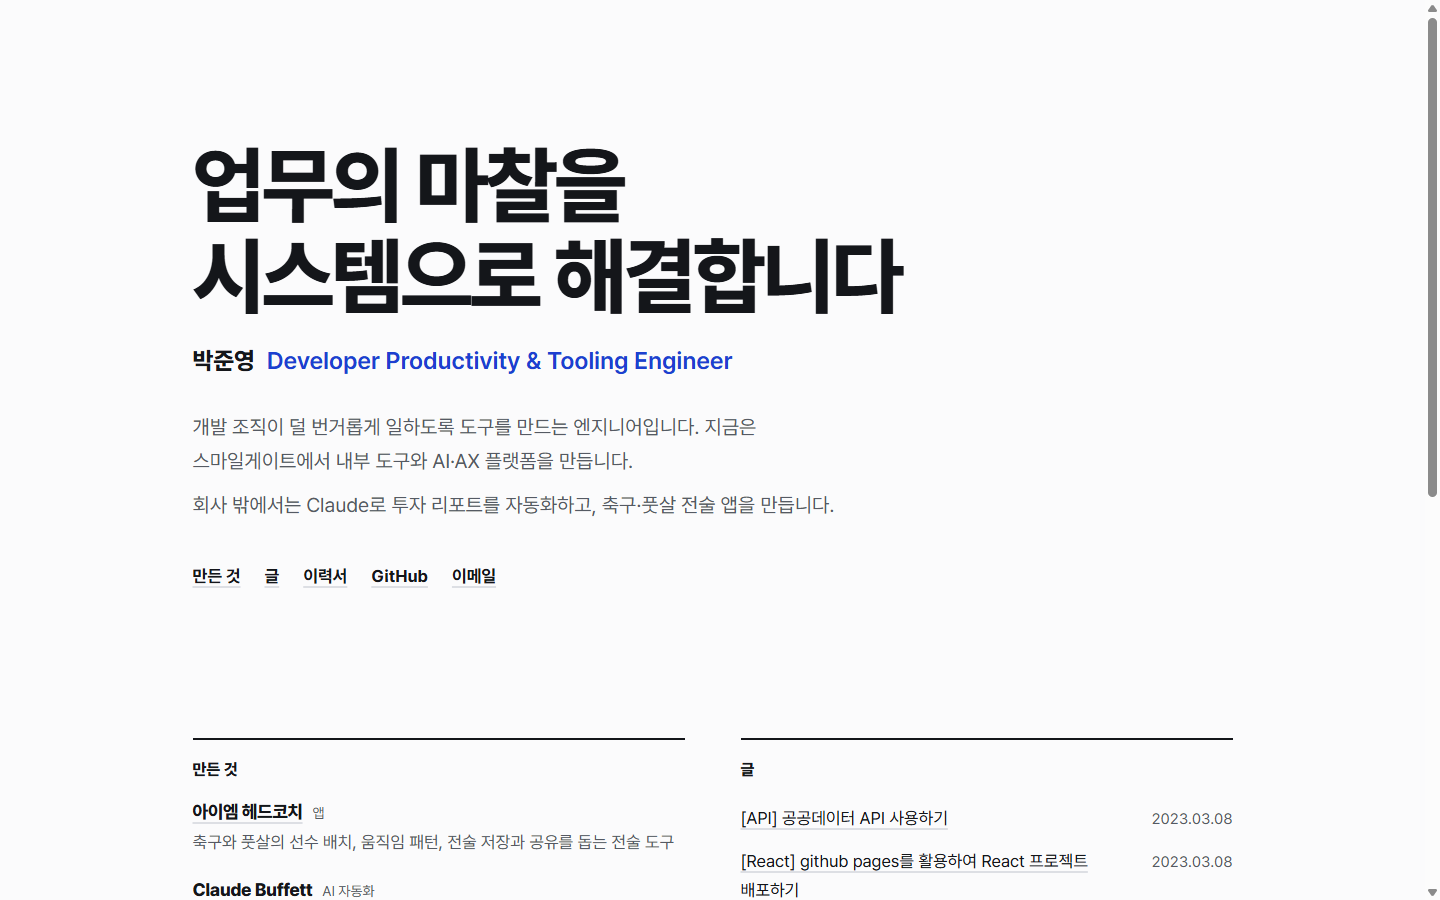
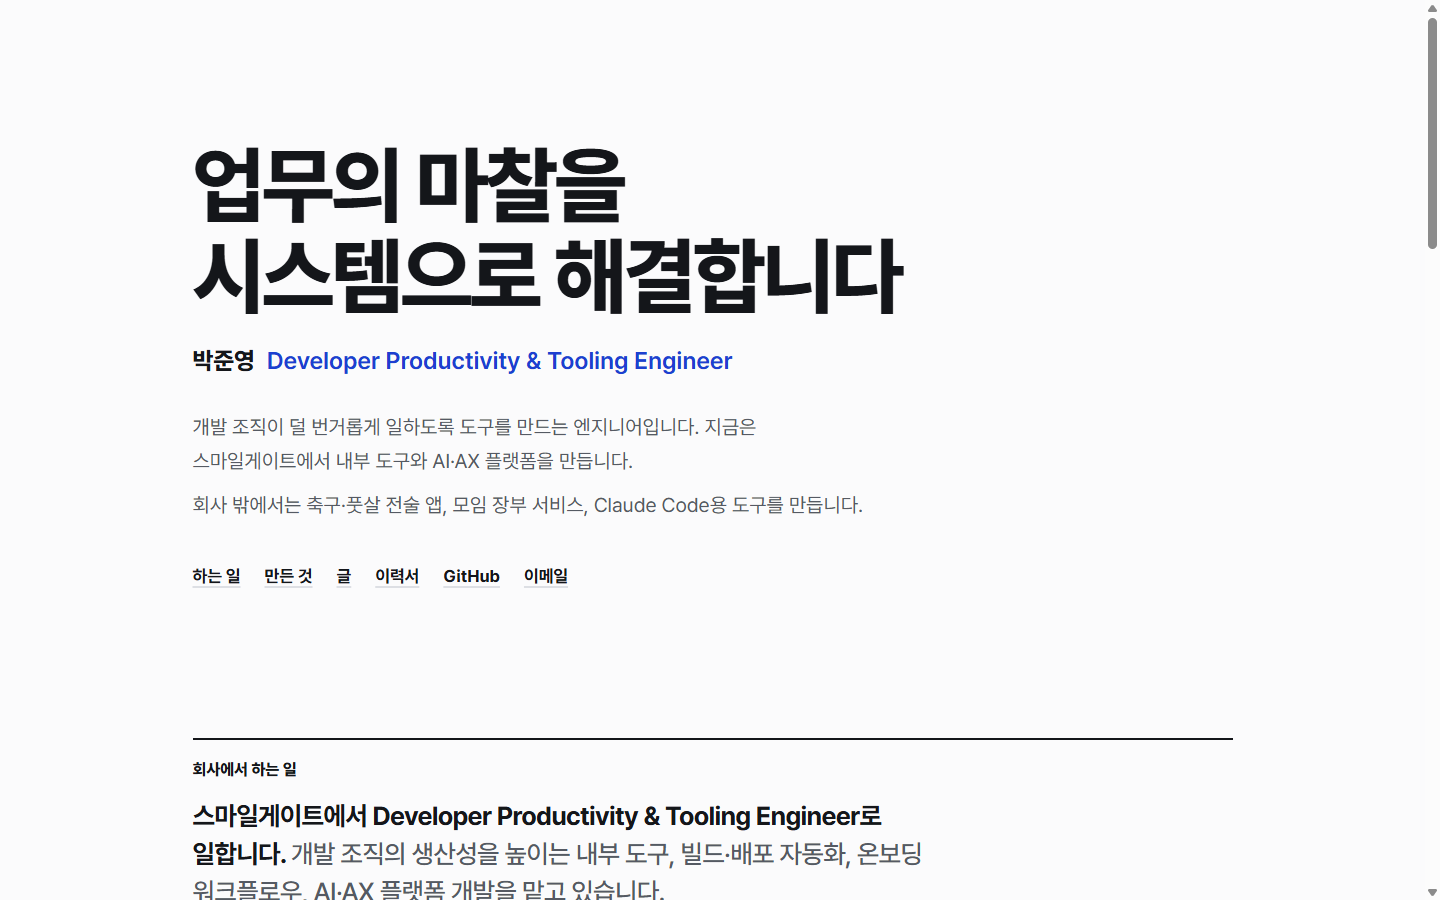
docs: put work first on the chosen home concept and list the picked projects
Home concept M is chosen. Order is now card, what I do at work, things made outside work, writing, resume. The 13 projects the owner picked follow the link rule: finished thing, GitHub when public, description only when private.

diff --git a/docs/ux-concepts/career-site-home/shared/home.js b/docs/ux-concepts/career-site-home/shared/home.js
@@ -13,18 +13,38 @@ window.HOME = {
   // Written for these drafts from facts already on the site. To be confirmed by the owner.
   intro: [
     '개발 조직이 덜 번거롭게 일하도록 도구를 만드는 엔지니어입니다. 지금은 스마일게이트에서 내부 도구와 AI·AX 플랫폼을 만듭니다.',
-    '회사 밖에서는 Claude로 투자 리포트를 자동화하고, 축구·풋살 전술 앱을 만듭니다.',
+    '회사 밖에서는 축구·풋살 전술 앱, 모임 장부 서비스, Claude Code용 도구를 만듭니다.',
   ],
-  // Headcoach text comes from public/iam-headcoach/index.html, the rest from src/data/content.ts.
+  // Picked by the owner on 2026-11-14. Link rule (owner's): a deployed project links to the finished thing,
+  // a public project also links to GitHub, a private one gets a description only.
+  // One-line descriptions come from each project's README or store listing.
   made: [
-    { name: '아이엠 헤드코치', kind: '앱', href: 'https://jaywapp.com/iam-headcoach/',
+    { group: 'service', name: '아이엠 헤드코치', live: { label: '소개 페이지', href: 'https://jaywapp.com/iam-headcoach/' }, repo: 'https://github.com/jaywapp/squad-maker',
       line: '축구와 풋살의 선수 배치, 움직임 패턴, 전술 저장과 공유를 돕는 전술 도구' },
-    { name: 'Claude Buffett', kind: 'AI 자동화', href: 'https://github.com/jaywapp/claude-buffett',
-      line: '종목 분석, 시장 동향, 포트폴리오 리뷰를 Claude로 자동 작성하는 투자 분석 시스템' },
-    { name: 'AI Debate', kind: '에이전트 워크플로우', href: 'https://github.com/jaywapp/ai-debate',
-      line: 'Claude와 Codex가 여러 라운드로 논쟁하고 독립된 판정자가 결론을 내리는 워크플로우' },
-    { name: 'CardRadar', kind: '모바일 앱', href: 'https://github.com/jaywapp/card-radar',
+    { group: 'service', name: '팀프레드', live: { label: '사이트', href: 'https://teampread.com/' },
+      line: '모임 회비, 장부, 출석을 Google 스프레드시트 위에서 관리하는 웹 앱' },
+    { group: 'service', name: '이지스쿼드', live: { label: '사이트', href: 'https://easy-squad.vercel.app/' },
+      line: 'FC Online에서 컨셉과 예산·급여 조건을 넣으면 AI가 선발 11명을 구성하는 웹 앱' },
+    { group: 'service', name: '스뽀쓰-맨', live: { label: '사이트', href: 'https://sports-man-khaki.vercel.app/' },
+      line: 'V리그와 K리그의 경기 일정, 사전 예측, 결과와 예측 성적을 보여 주는 웹앱' },
+    { group: 'service', name: 'Marvelog', live: { label: '사이트', href: 'https://marvelog.vercel.app/' },
+      line: '마블 영상물의 감상 상태를 가입 없이 기록하고 정주행 진행률을 확인하는 웹 앱' },
+    { group: 'service', name: '내새끼달력', live: { label: '사이트', href: 'https://baby-calendar-ashy.vercel.app/' },
+      line: '임신 준비부터 육아까지 아기의 일정을 한눈에 관리하는 웹 서비스' },
+    { group: 'service', name: '경충FC', live: { label: '사이트', href: 'https://gyungchung.vercel.app/' },
+      line: '축구 클럽 경충FC의 운영을 위한 웹과 모바일 앱' },
+    { group: 'service', name: 'CardRadar', repo: 'https://github.com/jaywapp/card-radar',
       line: '결제 순간 가장 유리한 카드를 찾도록 혜택을 비교하는 모바일 앱' },
+    { group: 'tool', name: 'cc-jsonl-monitor', live: { label: 'Chrome 웹 스토어', href: 'https://chromewebstore.google.com/detail/cc-jsonl-monitor/kmmfkpamdjpeadbbbgdefmdhahlefjin' }, repo: 'https://github.com/jaywapp/cc-jsonl-monitor',
+      line: 'Claude Code 세션 로그를 탐색하는 로컬 우선 Chrome 확장' },
+    { group: 'tool', name: 'key-man', live: { label: '다운로드', href: 'https://github.com/jaywapp/key-man/releases' }, repo: 'https://github.com/jaywapp/key-man',
+      line: 'GUI, CLI, MCP 연동을 갖춘 Windows용 로컬 API 키 관리 도구' },
+    { group: 'tool', name: 'p4-harness', repo: 'https://github.com/jaywapp/p4-harness',
+      line: 'Claude Code와 Codex가 함께 쓰는 Perforce 워크플로 하네스' },
+    { group: 'tool', name: 'Task Token Meter', repo: 'https://github.com/jaywapp/task-token-meter',
+      line: 'Claude Code와 Codex CLI에서 작업 하나가 쓴 토큰을 알려 주는 Windows CLI' },
+    { group: 'tool', name: 'AI Debate', repo: 'https://github.com/jaywapp/ai-debate',
+      line: 'Claude와 Codex가 여러 라운드로 논쟁하고 독립된 판정자가 결론을 내리는 워크플로우' },
   ],
   // Latest posts read from the blog feed on 2026-11-14.
   posts: [
@@ -51,9 +71,19 @@ window.HOME = {
   const esc = (s) => String(s).replace(/[&<>"]/g, (c) => ({ '&': '&amp;', '<': '&lt;', '>': '&gt;', '"': '&quot;' }[c]));
   const ext = (href) => (href.startsWith('mailto') ? '' : ' target="_blank" rel="noopener noreferrer"');
   H.esc = esc;
-  H.madeItems = () =>
-    H.made.map((m) => '<li><a href="' + m.href + '"' + ext(m.href) + '>' + esc(m.name) + '</a><span class="kind">' + esc(m.kind) + '</span>' +
-      '<p>' + esc(m.line) + '</p></li>').join('');
+  // The name links to the finished thing when there is one, otherwise to GitHub, otherwise nowhere.
+  H.madeItems = (group) =>
+    H.made
+      .filter((m) => !group || m.group === group)
+      .map((m) => {
+        const main = m.live ? m.live.href : m.repo;
+        const name = main ? '<a class="made-name" href="' + main + '"' + ext(main) + '>' + esc(m.name) + '</a>' : '<span class="made-name">' + esc(m.name) + '</span>';
+        const links = [];
+        if (m.live) links.push('<a href="' + m.live.href + '"' + ext(m.live.href) + '>' + esc(m.live.label) + '</a>');
+        if (m.repo) links.push('<a href="' + m.repo + '"' + ext(m.repo) + '>GitHub</a>');
+        return '<li>' + name + '<p>' + esc(m.line) + '</p>' + (links.length ? '<p class="made-links">' + links.join('') + '</p>' : '') + '</li>';
+      })
+      .join('');
   H.postItems = () =>
     H.posts.map((p) => '<li><a href="' + p.href + '"' + ext(p.href) + '>' + esc(p.title) + '</a><span class="date">' + esc(p.date) + '</span></li>').join('');
   H.careerItems = () =>
@@ -69,6 +99,8 @@ window.HOME = {
     H.set('who', '<strong>' + esc(H.name) + '</strong>' + esc(H.role));
     H.set('intro', H.introHtml());
     H.set('made', H.madeItems());
+    H.set('made-service', H.madeItems('service'));
+    H.set('made-tool', H.madeItems('tool'));
     H.set('posts', H.postItems());
     H.set('career', H.careerItems());
     H.set('links', H.linkItems());

diff --git a/docs/ux-concepts/career-site-home/concept-03/index.html b/docs/ux-concepts/career-site-home/concept-03/index.html
@@ -11,7 +11,7 @@
   <script src="../shared/home.js"></script>
   <script src="../../career-site/shared/review.js"></script>
   <style>
-    /* M: a calling card first, then two columns side by side: what I made and what I wrote. */
+    /* M: a calling card first. Then what I do at work, what I made outside it, what I wrote, and the way to the resume. */
     .card { min-height: 82dvh; display: grid; align-content: center; max-width: 1120px; margin: 0 auto; padding: 48px 40px; }
     h1 { max-width: 11em; font-size: clamp(2.5rem, 7.2vw, 5.25rem); font-weight: 800; line-height: 1.08; letter-spacing: -0.04em; }
     .role { margin-top: 20px; font-size: clamp(1.125rem, 2.2vw, 1.5rem); font-weight: 600; color: var(--cobalt); }
@@ -20,24 +20,42 @@
     .card .nav { margin-top: 32px; gap: 4px 24px; }
     .card .nav a { min-height: 44px; font-size: 17px; font-weight: 700; }
     .rest { max-width: 1120px; margin: 0 auto; padding: 0 40px 120px; }
-    .cols { display: grid; grid-template-columns: minmax(0, 1fr) minmax(0, 1fr); gap: 56px; }
+    .rest > section + section { margin-top: 88px; }
     h2 { padding: 16px 0 14px; font-size: 1rem; font-weight: 800; border-top: 2px solid var(--ink); }
-    .resume { margin-top: 72px; }
+    .lead { max-width: 30em; font-size: clamp(1.25rem, 2.4vw, 1.625rem); font-weight: 700; line-height: 1.45; letter-spacing: -0.025em; }
+    .lead span { color: var(--ink-2); font-weight: 500; }
+    /* Work: four fields side by side. */
+    .fields { display: grid; grid-template-columns: repeat(4, minmax(0, 1fr)); gap: 32px; margin-top: 36px; }
+    .fields > div { display: grid; grid-template-rows: subgrid; grid-row: span 3; gap: 0; } /* headings, blurbs and lists line up across fields */
+    .fields h3 { font-size: 1.25rem; font-weight: 800; letter-spacing: -0.02em; }
+    .fields .blurb { margin-top: 4px; font-size: 15.5px; color: var(--ink-2); }
+    .fields ul { display: grid; gap: 4px; margin-top: 14px; padding-top: 12px; font-size: 15.5px; border-top: 1px solid var(--rule); }
+    /* Made: two groups, each a two-column list. */
+    .group + .group { margin-top: 44px; }
+    .group h3 { font-size: 15px; font-weight: 600; color: var(--ink-2); }
+    .group .made { grid-template-columns: repeat(2, minmax(0, 1fr)); gap: 28px 56px; margin-top: 14px; }
+    .posts { max-width: 760px; }
     .foot { margin-top: 72px; }
-    @media (max-width: 819px) {
+    @media (max-width: 1023px) {
+      .fields { grid-template-columns: repeat(2, minmax(0, 1fr)); gap: 36px 32px; }
+    }
+    @media (max-width: 719px) {
       .card { min-height: 0; padding: 56px 20px 64px; }
       .rest { padding: 0 20px 96px; }
-      .cols { grid-template-columns: 1fr; gap: 56px; }
+      .rest > section + section { margin-top: 64px; }
+      .fields, .group .made { grid-template-columns: 1fr; }
+      .group .made { gap: 22px; }
     }
   </style>
 </head>
 <body>
-  <a class="skip" href="#made-title">본문으로 건너뛰기</a>
+  <a class="skip" href="#work-title">본문으로 건너뛰기</a>
   <header class="card">
     <h1 id="slogan"></h1>
     <p class="role" id="who"></p>
     <div class="intro" id="intro"></div>
     <nav class="nav" aria-label="주요 메뉴">
+      <a href="#work-title">하는 일</a>
       <a href="#made-title">만든 것</a>
       <a href="#posts-title">글</a>
       <a href="../../career-site-simple/concept-04/index.html">이력서</a>
@@ -46,24 +64,44 @@
     </nav>
   </header>
   <main class="rest">
-    <div class="cols">
-      <section>
-        <h2 id="made-title">만든 것</h2>
-        <ul class="made" id="made"></ul>
-      </section>
-      <section>
-        <h2 id="posts-title">글</h2>
-        <ul class="posts" id="posts"></ul>
-        <a class="more" href="https://jaywapp.tistory.com/" target="_blank" rel="noopener noreferrer">블로그에서 모두 보기</a>
-      </section>
-    </div>
-    <section class="resume">
+    <section>
+      <h2 id="work-title">회사에서 하는 일</h2>
+      <p class="lead" id="work-lead"></p>
+      <div class="fields" id="fields"></div>
+      <a class="more" href="../../career-site-simple/concept-04/index.html" style="margin-top: 24px">이력서에서 자세히 보기</a>
+    </section>
+    <section>
+      <h2 id="made-title">회사 밖에서 만든 것</h2>
+      <div class="group"><h3>서비스와 앱</h3><ul class="made" id="made-service"></ul></div>
+      <div class="group"><h3>개발자 도구와 AI</h3><ul class="made" id="made-tool"></ul></div>
+    </section>
+    <section>
+      <h2 id="posts-title">글</h2>
+      <ul class="posts" id="posts"></ul>
+      <a class="more" href="https://jaywapp.tistory.com/" target="_blank" rel="noopener noreferrer">블로그에서 모두 보기</a>
+    </section>
+    <section>
       <h2>이력</h2>
       <ul class="career" id="career"></ul>
       <a class="more" href="../../career-site-simple/concept-04/index.html">이력서 전체 보기</a>
     </section>
     <footer class="foot"><p>© 2026 Junyoung Park</p></footer>
   </main>
-  <script>window.HOME.fill();</script>
+  <script src="../../career-site/shared/data.js"></script>
+  <script>
+    (function () {
+      const H = window.HOME, C = window.CAREER, esc = H.esc;
+      H.fill();
+      // What I do at work: the current employer's work grouped by field (same data as the resume).
+      const now = C.companies.find((c) => !c.end);
+      H.set('work-lead', esc(now.name) + '에서 ' + esc(now.role) + '로 일합니다. <span>' + esc(now.description) + '을 맡고 있습니다.</span>');
+      H.set('fields', C.themes
+        .map((t) => ({ t: t, list: now.projects.filter((p) => p.theme === t.id) }))
+        .filter((x) => x.list.length)
+        .map((x) => '<div><h3>' + esc(x.t.name) + '</h3><p class="blurb">' + esc(x.t.blurb) + '</p><ul>' +
+          x.list.map((p) => '<li>' + esc(p.short) + '</li>').join('') + '</ul></div>')
+        .join(''));
+    })();
+  </script>
 </body>
 </html>

diff --git a/docs/ux-concepts/career-site-home/shared/home.css b/docs/ux-concepts/career-site-home/shared/home.css
@@ -29,16 +29,23 @@
   gap: 18px;
 }
 
-.made a {
+.made .made-name {
   font-size: 1.125rem;
   font-weight: 800;
   letter-spacing: -0.02em;
 }
 
-.made .kind {
-  margin-left: 10px;
-  font-size: 14px;
-  color: var(--ink-2);
+.made-links {
+  display: flex;
+  flex-wrap: wrap;
+  gap: 0 16px;
+  font-size: 14.5px;
+}
+
+.made-links a {
+  display: inline-flex;
+  align-items: center;
+  min-height: 32px;
 }
 
 .made p {

diff --git a/docs/ux-concepts/career-site-home/README.md b/docs/ux-concepts/career-site-home/README.md
@@ -1,6 +1,6 @@
 # career-site-home 시안 (4라운드, 홈 화면)
 
-상태: **사용자 선택 대기** (2026-11-14 작성). 선택 전에는 운영 코드(`src/`)를 고치지 않는다.
+**선택: M 명함 (2026-11-14, 사용자 선택)**. "M 레이아웃이 좋다." 홈 화면은 M으로 간다. 이력서 페이지 시안과 홈에 넣을 프로젝트는 아직 정하는 중이다. 정해지기 전에는 운영 코드(`src/`)를 고치지 않는다.
 
 ## 요청
 
@@ -65,7 +65,29 @@
 | 항목이 늘 때 | 길어짐 | 가장 잘 버팀 | 두 열 길이가 어긋남 |
 | 인상 | 조용함 | 단정 | 또렷함 |
 
-## 추천
+## M 확정 뒤 바뀐 것 (2026-11-14)
+
+사용자 결정
+
+- 홈 순서: "사실 만든것보다 내가 회사에서 어떤일을 하는지가 먼저나오면 좋겠어." 명함 → 회사에서 하는 일 → 회사 밖에서 만든 것 → 글 → 이력.
+- 만든 것에 넣을 프로젝트 13개를 사용자가 골랐다. 서비스와 앱: 아이엠 헤드코치, 팀프레드, 이지스쿼드, 스뽀쓰-맨, Marvelog, 내새끼달력, 경충FC, CardRadar. 개발자 도구와 AI: cc-jsonl-monitor, key-man, p4-harness, Task Token Meter, AI Debate.
+- 고르지 않은 것: WAM, Claude Buffett, toss-readonly-mcp.
+- 링크 규칙: "배포까지 한 친구는 완전품 링크 + 공개프로젝트는 github주소 + 비공개프로젝트는 설명만."
+
+M 시안(`concept-03`)에 반영한 것
+
+- "회사에서 하는 일": 현재 회사와 직무 한 문장, 그 아래 분야 네 개(AI·AX, 빌드·배포, 업무 도구, 운영·온보딩)와 분야별 작업 이름. 이력서와 같은 데이터에서 만든다. 분야 분류와 작업의 짧은 이름은 1라운드에서 내가 붙인 것이라 확인이 필요하다.
+- "회사 밖에서 만든 것": 두 묶음, 2열 목록. 이름은 완성품이 있으면 완성품으로, 없으면 GitHub로 간다. 아래에 "사이트"·"GitHub" 같은 링크가 따로 있다.
+- 소개 둘째 문단을 고른 프로젝트에 맞게 고쳤다(Claude Buffett 언급 삭제).
+- 한 줄 설명은 각 프로젝트 README와 스토어 문구에서 가져왔다. 모든 링크가 200으로 열리는 것을 2026-11-14에 확인했다.
+- K, L은 고르지 않은 시안이라 순서를 바꾸지 않았다. 프로젝트 목록만 같은 데이터로 바뀌었다.
+
+남은 확인
+
+- 스뽀쓰-맨은 경기 예측 사이트다. 이력서와 같은 사이트에 올려도 되는지는 사용자가 골랐으므로 그대로 넣었다.
+- 경충FC 사이트는 클럽 구성원용이다. 외부 방문자가 눌렀을 때 무엇이 보이는지 확인하지 않았다.
+- key-man의 "다운로드"는 GitHub 릴리스 목록으로 간다. Task Token Meter는 미리보기 릴리스만 있어 GitHub 링크만 뒀다.
+## 추천 (선택 전 기록)
 
 **M 명함**을 추천한다. "내 사이트"라는 느낌이 가장 분명하고, 이력서(I 펼침)로 넘어갔을 때 같은 굵은 글자와 선이 이어진다. 조용한 쪽을 원하면 K다.
 
